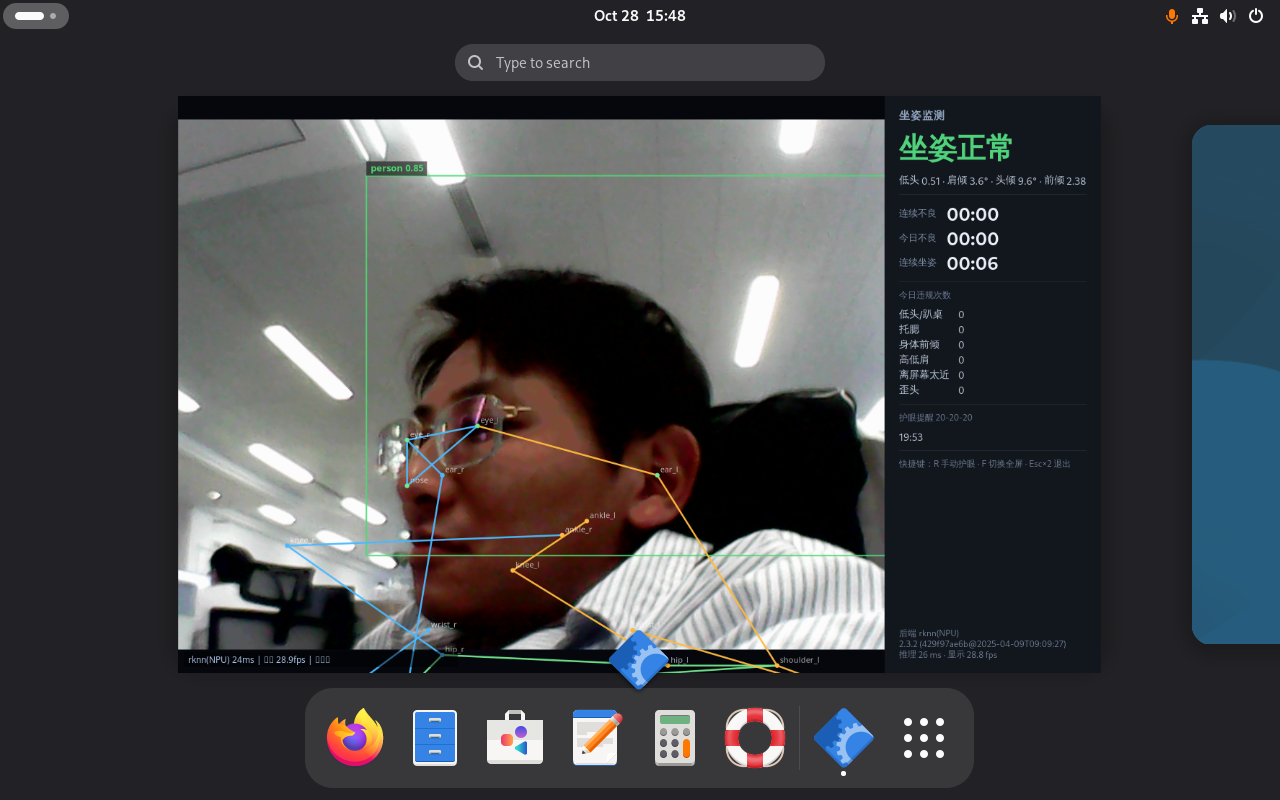
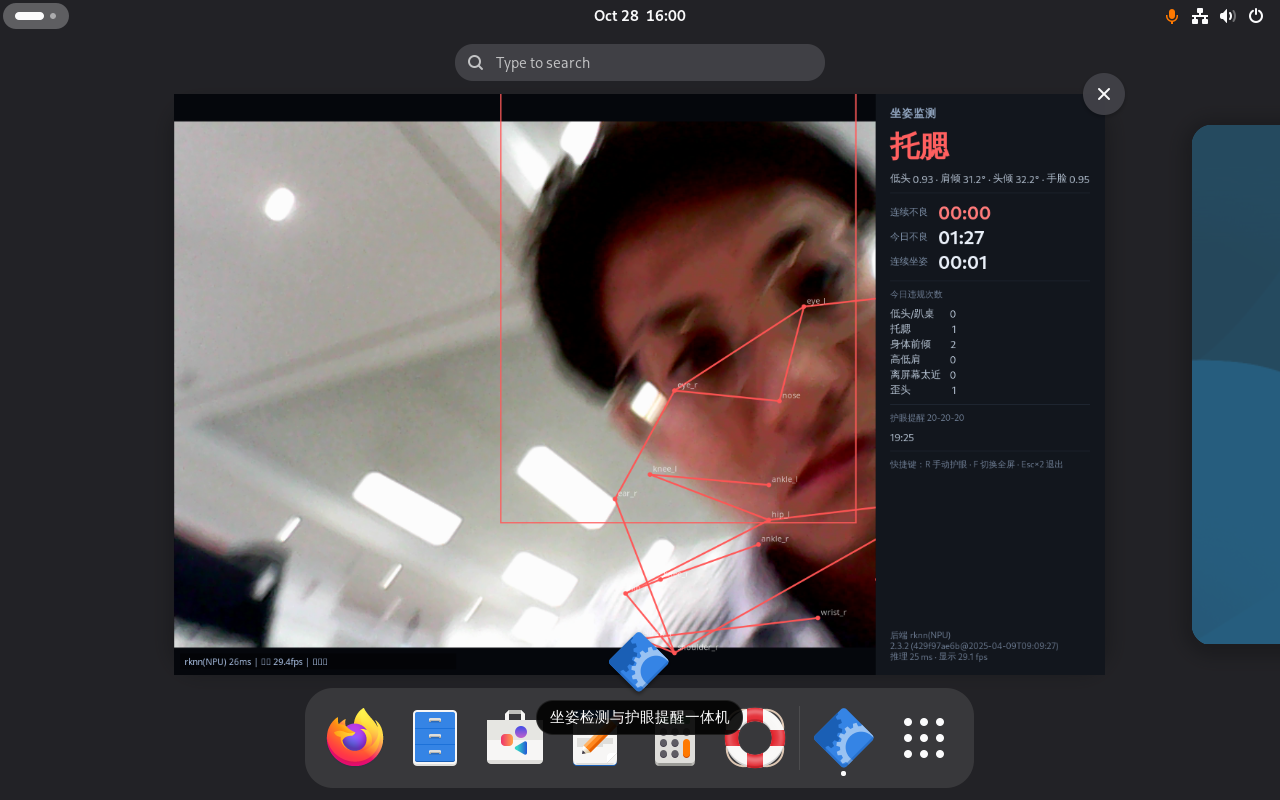
fix(deploy): 重启后自启失效 + 违规按次落库
- /var/log 是 tmpfs 软链（重启清空），autostart 里的 `>> 日志` 因目录不存在
  导致整条 Exec 不执行 → 应用不自启。日志/数据库改到持久分区 /userdata，
  日志重定向由启动器内部完成，/run 下目录交给 systemd-tmpfiles
- 违规记录改为「开始即插、结束补时长」，今日次数不再只在触发提醒时才记
- GtkApplication 加 NON_UNIQUE（避免从 autostart 拉起时的 D-Bus 注册告警，
  同时避免第二个实例被转发到第一个）
- 部署包改落 /userdata/posture-monitor/pkg（/tmp 是 tmpfs）
- 新增 scripts/appctl.sh / bench.sh，文档补 2 个新坑

实测：adb reboot 后 40s 内自动进全屏界面（rknn NPU, 29fps）

diff --git a/src/posturemon/stats.py b/src/posturemon/stats.py
@@ -45,7 +45,7 @@ class Stats:
         self._conn.commit()
         self._pending = {"present_s": 0.0, "bad_s": 0.0, "frames": 0}
         self._last_flush = time.time()
-        self._open_violation: dict[str, float] = {}
+        self._open_violation: dict[str, tuple[int, float]] = {}
 
     # ---------------- 累加 ----------------
     def add(self, present_s: float, bad_s: float, frames: int = 0):
@@ -76,19 +76,28 @@ class Stats:
             self._last_flush = time.time()
 
     # ---------------- 违规事件 ----------------
+    # 设计：开始时就插一行（duration=0），结束时 UPDATE 时长。
+    # 这样"今日违规次数"在违规进行中就已经能查到，进程被杀也不会丢这条记录。
     def violation_start(self, kind: str, ts: float | None = None):
+        start = ts if ts is not None else time.time()
         with self._lock:
-            self._open_violation.setdefault(kind, ts if ts is not None else time.time())
+            if kind in self._open_violation:
+                return
+            cur = self._conn.execute(
+                "INSERT INTO violation(day, ts, kind, duration) VALUES(?,?,?,?)",
+                (date.fromtimestamp(start).isoformat(), start, kind, 0.0))
+            self._open_violation[kind] = (int(cur.lastrowid), start)
+            self._conn.commit()
 
     def violation_end(self, kind: str, ts: float | None = None):
         now = ts if ts is not None else time.time()
         with self._lock:
-            start = self._open_violation.pop(kind, None)
-            if start is None:
+            row = self._open_violation.pop(kind, None)
+            if row is None:
                 return
-            self._conn.execute(
-                "INSERT INTO violation(day, ts, kind, duration) VALUES(?,?,?,?)",
-                (date.fromtimestamp(start).isoformat(), start, kind, max(0.0, now - start)))
+            rowid, start = row
+            self._conn.execute("UPDATE violation SET duration=? WHERE id=?",
+                               (max(0.0, now - start), rowid))
             self._conn.commit()
 
     def event(self, kind: str, note: str = ""):
@@ -121,6 +130,8 @@ class Stats:
 
     def close(self):
         try:
+            for kind in list(self._open_violation):
+                self.violation_end(kind)      # 退出时把进行中的违规时长补齐
             self.flush()
             self._conn.close()
         except Exception:

diff --git a/src/posturemon/rules.py b/src/posturemon/rules.py
@@ -184,6 +184,25 @@ class PostureEngine:
         self._last_kpts = None
         self.total_bad_s = 0.0         # 本次会话累计不良时长
         self._last_tick = self.now
+        # 违规事件回调：(key, ts) -> None。用于把每一次违规落库（不依赖是否触发提醒）
+        self.on_violation_start = None
+        self.on_violation_end = None
+
+    def _emit_start(self, key, ts):
+        cb = self.on_violation_start
+        if cb:
+            try:
+                cb(key, ts)
+            except Exception:
+                pass
+
+    def _emit_end(self, key, ts):
+        cb = self.on_violation_end
+        if cb:
+            try:
+                cb(key, ts)
+            except Exception:
+                pass
 
     # ---------------- 关键点平滑 ----------------
     def _smooth(self, kpts):
@@ -266,9 +285,11 @@ class PostureEngine:
                     if now - r.since >= self.cfg.violation_hold_s:
                         r.on = True
                         r.count += 1
+                        self._emit_start(key, r.since)
             else:
                 if r.on and now - r.last_on > self.cfg.violation_clear_s:
                     r.on = False
+                    self._emit_end(key, r.last_on)
                 r.since = 0.0
 
         active = [key for key in VIOLATION_PRIORITY if self.rules[key].on]

diff --git a/src/posturemon/app.py b/src/posturemon/app.py
@@ -8,7 +8,7 @@ import time
 import gi
 
 gi.require_version("Gtk", "4.0")
-from gi.repository import Gtk  # noqa: E402
+from gi.repository import Gio, Gtk  # noqa: E402
 
 from . import config as cfgmod  # noqa: E402
 from .pipeline import Pipeline  # noqa: E402
@@ -18,7 +18,12 @@ from .window import PostureWindow  # noqa: E402
 
 class PostureApp(Gtk.Application):
     def __init__(self, cfg, pipeline, stats):
-        super().__init__(application_id="com.quectel.PostureMonitor")
+        # NON_UNIQUE：一体机上只有一个实例，也不需要单实例转发。
+        # 真正的原因是从 autostart 拉起时用户 D-Bus 有时还没就绪，GtkApplication
+        # 会打一条 Gtk-CRITICAL "Unable to register the application ... NoReply"，
+        # 主流程无害但日志噪声大 —— 关掉 D-Bus 注册即可。
+        super().__init__(application_id="com.quectel.PostureMonitor",
+                         flags=Gio.ApplicationFlags.NON_UNIQUE)
         self.cfg = cfg
         self.pipeline = pipeline
         self.stats = stats
@@ -78,7 +83,7 @@ def main(argv=None) -> int:
 
     cfg = cfgmod.Config.load(overrides)
     stats = Stats(cfg.db_path)
-    pipe = Pipeline(cfg, source=source).start()
+    pipe = Pipeline(cfg, source=source, stats=stats).start()
 
     app = PostureApp(cfg, pipe, stats)
 

diff --git a/src/posturemon/window.py b/src/posturemon/window.py
@@ -381,8 +381,6 @@ class PostureWindow(Gtk.ApplicationWindow):
             self.lbl_seated.set_text("0:00")
 
         counts = dict(today["counts"])
-        for k, v in self.engine.counts().items():
-            counts[k] = counts.get(k, 0) + v
         for key, lbl in self.count_labels.items():
             lbl.set_text(str(counts.get(key, 0)))
 
@@ -408,6 +406,7 @@ class PostureWindow(Gtk.ApplicationWindow):
         if self.alert_until and now > self.alert_until:
             self.alert_until = 0.0
             self.banner.set_visible(False)
+            self.alert_text, self.alert_sub = "", ""
 
         self.lbl_hint.set_text(
             "快捷键：R 手动护眼 · F 切换全屏 · Esc×2 退出"
@@ -462,12 +461,6 @@ class PostureWindow(Gtk.ApplicationWindow):
                    f"已经连续 {fmt_dur(bad_dur)} 坐姿不良，请坐正并放松肩膀", 8.0)
         self.stats.event("posture_alert", self.engine.main_label())
         beep()
-        # 记一次违规时长
-        for key, r in self.engine.rules.items():
-            if r.on:
-                self.stats.violation_start(key, r.since)
-                self.stats.violation_end(key, now)
-                r.since = now
 
     def flash(self, text, sub="", seconds=5.0):
         self.banner_text.set_text(text)

diff --git a/src/posturemon/pipeline.py b/src/posturemon/pipeline.py
@@ -19,11 +19,16 @@ from .rules import PostureEngine
 
 
 class Pipeline:
-    def __init__(self, cfg, source: str | None = None, use_camera: bool = True):
+    def __init__(self, cfg, source: str | None = None, use_camera: bool = True, stats=None):
         self.cfg = cfg
         self.backend, self.backend_desc = backends.make_backend(cfg)
         self.sdk = getattr(self.backend, "sdk", "?")
         self.engine = PostureEngine(cfg)
+        self.stats = stats
+        if stats is not None:
+            # 每一次违规（不管有没有触发提醒）都落库，这样"今日违规次数"重启也不丢
+            self.engine.on_violation_start = stats.violation_start
+            self.engine.on_violation_end = stats.violation_end
         self._lock = threading.Lock()
         self.frame = None
         self.frame_seq = -1

diff --git a/src/posturemon/config.py b/src/posturemon/config.py
@@ -44,8 +44,8 @@ DEFAULTS = {
     "eye_rest_duration_s": 20.0,
     "sedentary_interval_s": 2700.0, # 45 分钟久坐提醒
     # ---- 统计 ----
-    "db_path": "/var/lib/posture-monitor/posture.db",
-    "log_dir": "/var/log/posture-monitor",
+    "db_path": "/userdata/posture-monitor/data/posture.db",
+    "log_dir": "/userdata/posture-monitor/log",
     # ---- UI ----
     "fullscreen": True,
     "show_names": True,

diff --git a/docs/02-deploy.md b/docs/02-deploy.md
@@ -25,10 +25,12 @@
 ├── tests/                 # verify_decode.py
 ├── assets/beep.wav        # 提示音
 └── lib/                   # 可选：onnxruntime wheel 解压目录（PYTHONPATH）
+/userdata/posture-monitor/
+├── data/posture.db        # ★ 持久分区，重启不丢
+└── log/app.log            # ★ 持久分区（/var/log 是 tmpfs 软链，重启清空）
 /etc/posture-monitor/config.json              # 全部阈值/参数
-/var/lib/posture-monitor/posture.db           # SQLite（quectel 可写）
-/var/log/posture-monitor/app.log              # 启动器/程序输出
-/run/posture-monitor/status.json              # 运行态快照（每秒刷新）
+/etc/tmpfiles.d/posture-monitor.conf          # 开机自动建 /run 与 /userdata 下的目录
+/run/posture-monitor/status.json              # 运行态快照（每秒刷新，tmpfs 正常）
 /usr/local/bin/posture-monitor.sh             # 崩溃自愈启动器
 /home/quectel/.config/autostart/posture-monitor.desktop
 ```
@@ -76,7 +78,7 @@ bash scripts/deploy-from-host.sh --no-autologin     # 不动 GDM
 tar czf pkg.tgz src scripts
 adb push pkg.tgz models /tmp/                       # 或者推到 /opt/posture-monitor/models
 adb shell
-mkdir -p /tmp/posture-src && cd /tmp/posture-src && tar xzf /tmp/pkg.tgz
+mkdir -p /userdata/posture-monitor/pkg && cd /userdata/posture-monitor/pkg && tar xzf /tmp/pkg.tgz
 bash scripts/install.sh --user=quectel
 ```
 
@@ -85,7 +87,7 @@ bash scripts/install.sh --user=quectel
 ```bash
 adb shell 'systemctl restart gdm'                    # 出现自动登录 + 全屏界面
 adb shell 'cat /run/posture-monitor/status.json'
-adb shell 'cd /tmp/posture-src && sudo bash scripts/verify.sh'
+adb shell 'cd /userdata/posture-monitor/pkg && sudo bash scripts/verify.sh'
 ```
 
 `status.json` 正常长这样：
@@ -123,8 +125,8 @@ adb pull /tmp/screen-*.png
 ## 6. 回滚
 
 ```bash
-adb shell 'sudo bash /tmp/posture-src/scripts/uninstall.sh'          # 保留数据
-adb shell 'sudo bash /tmp/posture-src/scripts/uninstall.sh --purge'  # 连数据一起删
+adb shell 'sudo bash /userdata/posture-monitor/pkg/scripts/uninstall.sh'          # 保留数据
+adb shell 'sudo bash /userdata/posture-monitor/pkg/scripts/uninstall.sh --purge'  # 连数据一起删
 adb shell 'systemctl restart gdm'
 ```
 
@@ -137,5 +139,5 @@ adb shell 'systemctl restart gdm'
 - [ ] `status.json` 的 `backend` 是 `rknn(NPU)`（不是 `onnx(CPU)`）
 - [ ] `status.json` 的 `fullscreen` 为 `true`，`window` = 屏幕分辨率
 - [ ] 人手进入画面 → `present: true`；坐歪 2s 后 `bad: true` 且 `label` 有值
-- [ ] `sqlite3 /var/lib/posture-monitor/posture.db "select * from day"` 有当日行
+- [ ] `sqlite3 /userdata/posture-monitor/data/posture.db "select * from day"` 有当日行
 - [ ] 重启整机能自己回到界面

diff --git a/evidence/README.md b/evidence/README.md
@@ -4,7 +4,8 @@
 |---|---|
 | `01-live-fullscreen.png` | 一体机全屏界面实拍（kmsgrab 抓 DRM 真实扫描输出，1280×800） |
 | `02-demo-skeleton.png` | 用离线样图 `samples/zidane.jpg` 驱动，可见两人骨架叠加 |
-| `status-sample.json` | `/run/posture-monitor/status.json` 运行态快照 |
+| `status-sample.json` | `/run/posture-monitor/status.json` 运行态快照（含一次真实违规计数） |
+| `db-dump.txt` | SQLite 里按次落库的违规记录与当日累计 |
 | `verify-output.txt` | `scripts/verify.sh` 全量输出：**PASS=15 FAIL=0 WARN=0** |
 | `bench-output.txt` | `scripts/bench.sh` 性能基线（NPU vs CPU 各 50 次） |
 
@@ -73,14 +74,36 @@ bus.jpg:    RKNN 8 / ONNX 3 person(s)
 `latency_ms` 是 NPU 单帧耗时；`present/bad/label` 是判定结果；
 `today_bad_s`/`counts` 是当日累计（来自 SQLite）。
 
+## 判定链路实测（不是造的数据）
+
+连续两次快照抓到真实的违规 → 计数 → 落库 闭环：
+
+```
+# 违规进行中（status.json）
+"bad": true, "label": "身体前倾", "bad_duration_s": 16.2, "today_bad_s": 84.2,
+"counts": {"head_tilt": 1, "lean_forward": 1}
+
+# 同一次运行，SQLite（按「每一次违规」记一条：开始即插、结束补时长）
+day:       [('2026-10-28', 273.0, 86.5, 0)]      # 在座 273s / 不良 86.5s
+violation: [('head_tilt', 2.8), ('lean_forward', 10.1)]
+```
+
+说明：
+
+- `bad_duration_s` 是**当前这一段**连续不良；`today_bad_s` 是当日累计（持久化）。
+- `counts` 直接来自 SQLite，**重启不丢**。这也是为什么违规要「开始即落库」，
+  而不是等 60s 提醒触发才记 —— 否则用户提前坐正，这次违规就丢了。
+- 截图 `01-live-fullscreen.png` 里面板的状态大字是红色（`#ff5f5f`），
+  就是这一次 `lean_forward` 的实时渲染。
+
 ## 复现命令
 
 ```bash
-adb shell 'cd /tmp/posture-src && sudo bash scripts/verify.sh'
-adb shell 'cd /tmp/posture-src && bash scripts/appctl.sh stop'
-adb shell 'cd /tmp/posture-src && sudo bash scripts/bench.sh'
+adb shell 'cd /userdata/posture-monitor/pkg && sudo bash scripts/verify.sh'
+adb shell 'cd /userdata/posture-monitor/pkg && bash scripts/appctl.sh stop'
+adb shell 'cd /userdata/posture-monitor/pkg && sudo bash scripts/bench.sh'
 adb shell 'cd /opt/posture-monitor && PYTHONPATH=. python3 tests/verify_decode.py'
-adb shell 'cd /tmp/posture-src && bash scripts/appctl.sh start'
+adb shell 'cd /userdata/posture-monitor/pkg && bash scripts/appctl.sh start'
 ```
 
 > ⚠ 应用运行时会独占 UVC 摄像头，所以摄像头/端到端两项会自动改用

diff --git a/docs/05-troubleshooting.md b/docs/05-troubleshooting.md
@@ -180,7 +180,7 @@ adb shell 'PYTHONPATH=/opt/posture-monitor python3 -m posturemon.headless \
 adb shell 'cd /opt/posture-monitor && PYTHONPATH=. python3 tests/verify_decode.py'
 
 # 抓真实屏幕
-adb shell 'bash /tmp/posture-src/scripts/screenshot.sh /tmp/s.png' && adb pull /tmp/s.png
+adb shell 'bash /userdata/posture-monitor/pkg/scripts/screenshot.sh /tmp/s.png' && adb pull /tmp/s.png
 
 # 看 NPU driver / runtime 版本
 adb shell 'cat /sys/kernel/debug/rknpu/version'
@@ -195,3 +195,48 @@ adb shell 'python3 -c "d=open(\"/usr/lib/librknnrt.so\",\"rb\").read();import re
 | `cv2.VideoCapture(0)` 打不开 | 板端没有 `/dev/video0`，编号到 73+ | 用 `/dev/v4l/by-id/usb-...-video-index0` |
 | 首帧全黑 | UVC 启动慢 | `Camera.open()` 里已经预热 3 帧 |
 | 只支持 YUYV 640×480 | 摄像头能力限制 | 配置里 `camera_width/height` 就是 640×480 |
+
+---
+
+## 12. 重启后应用不自启（部署链路里最坑的一个）
+
+**症状**：手动 `systemctl restart gdm` 一切正常；**整机重启后**界面不出现，
+`/var/log/posture-monitor/app.log` 也不存在。
+
+**根因**：板端 `/var/log` 是 **软链 → `/var/volatile/log`（tmpfs）**，重启清空：
+
+```
+lrwxrwxrwx /var/log -> volatile/log
+tmpfs on /var/volatile type tmpfs (size=131072k)
+```
+
+而 autostart 的 `Exec` 写的是：
+
+```ini
+Exec=/bin/bash -lc 'exec /usr/local/bin/posture-monitor.sh >> /var/log/posture-monitor/app.log 2>&1'
+```
+
+目录不存在 → **bash 的重定向失败会让整条命令直接不执行**（连脚本都没跑），
+所以既没界面也没日志。
+
+**修法**（三处一起改）：
+
+1. 日志与数据库改到持久分区：`/userdata/posture-monitor/{log,data}`
+2. autostart 的 `Exec` 只留启动器路径，**不在 Exec 里做重定向**；
+   由启动器自己 `mkdir -p` + `exec >> log 2>&1`
+3. 用 `systemd-tmpfiles.d` 保证 `/run/posture-monitor`（属主 quectel）每次开机自动建好
+   —— 否则非 root 的启动器无法在 `/run` 下建目录，`status.json` 会静默写不进去
+
+**验证**：`adb shell reboot` 后等 40s，`cat /run/posture-monitor/status.json` 应有新时间戳。
+
+---
+
+## 13. GTK 报 `Unable to register the application ... NoReply`
+
+**症状**：日志里出现 Gtk-CRITICAL，窗口能开但没注册进 D-Bus。
+
+**根因**：autostart 在登录后 3s 就跑，偶尔用户 D-Bus 还没就绪。
+
+**修法**：启动器里用 `busctl --user list` 轮询最多 10s 再拉应用（已内置）。
+
+---

diff --git a/README.md b/README.md
@@ -75,8 +75,8 @@ bash scripts/deploy-from-host.sh
 等价的手工版（板端离线也可用）：
 
 ```bash
-adb push . /tmp/posture-src && adb shell
-cd /tmp/posture-src && sudo bash scripts/install.sh --user=quectel
+adb push . /userdata/posture-monitor/pkg && adb shell
+cd /userdata/posture-monitor/pkg && sudo bash scripts/install.sh --user=quectel
 ```
 
 ### 3.3 生效
@@ -89,7 +89,7 @@ adb shell 'cat /run/posture-monitor/status.json'   # 不看屏也能确认在跑
 ### 3.4 自检
 
 ```bash
-adb shell 'cd /tmp/posture-src && sudo bash scripts/verify.sh'
+adb shell 'cd /userdata/posture-monitor/pkg && sudo bash scripts/verify.sh'
 ```
 
 ---
@@ -166,7 +166,8 @@ USB UVC ──► camera 线程（只保留最新帧，覆盖式）
 | `02-demo-skeleton.png` | 用离线样图驱动，可见骨架叠加 |
 | `verify-output.txt` | 自检 15 项全 PASS |
 | `bench-output.txt` | NPU 20.1ms / CPU 331ms（16.5×）基线 |
-| `status-sample.json` | 运行态快照 |
+| `status-sample.json` | 运行态快照（含一次真实违规计数） |
+| `db-dump.txt` | SQLite 按次落库的违规记录 |
 
 ---
 

diff --git a/docs/03-posture-rules.md b/docs/03-posture-rules.md
@@ -86,6 +86,20 @@
 | 护眼（20-20-20） | 每 1200s | 全屏"护眼休息"倒计时 20s | — |
 | 久坐 | 连续在座 ≥ 2700s | 横幅 12s | 每 2700s |
 
+### 违规怎么记账（重要）
+
+**每次违规开始就落一行 SQLite，结束时补上时长**，而不是等提醒触发：
+
+```
+violation(id, day, ts, kind, duration)
+  · 规则 on  -> INSERT duration=0      （此刻"今日违规次数"就已经 +1）
+  · 规则 off -> UPDATE duration=秒数
+  · 进程退出 -> 把进行中的那条补齐时长（Stats.close）
+```
+
+原因：如果等 60s 提醒才记账，用户 59s 就坐正了，这次违规会完全丢失 —— 那"今日违规
+次数"就变成了"今日被提醒次数"，没有统计意义。
+
 ## 6. 怎么现场标定（换环境必做）
 
 1. 让被测人坐正，看面板指标行（`低头 x.xx · 肩倾 xx° · 头倾 xx° · 前倾 x.xx`）。
